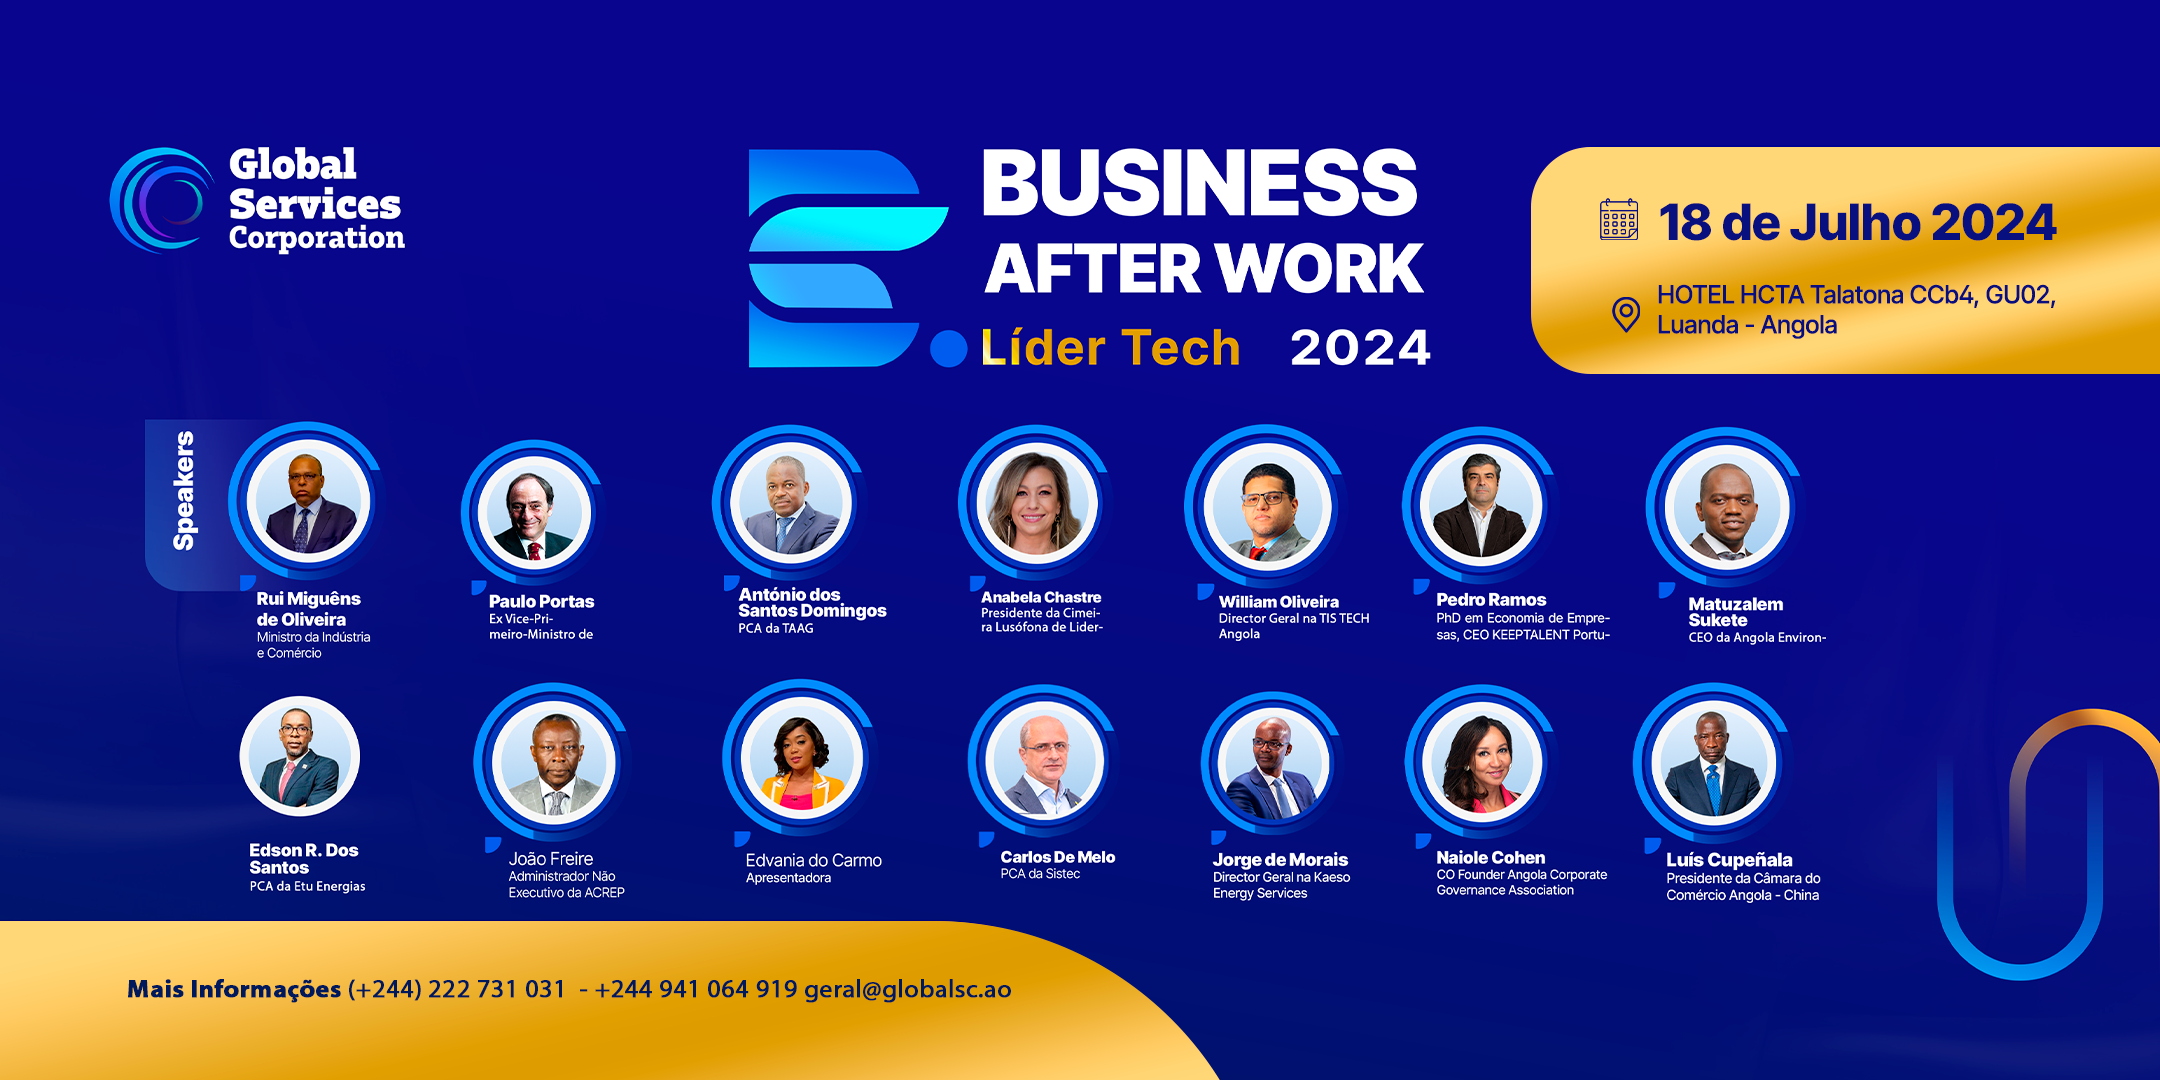
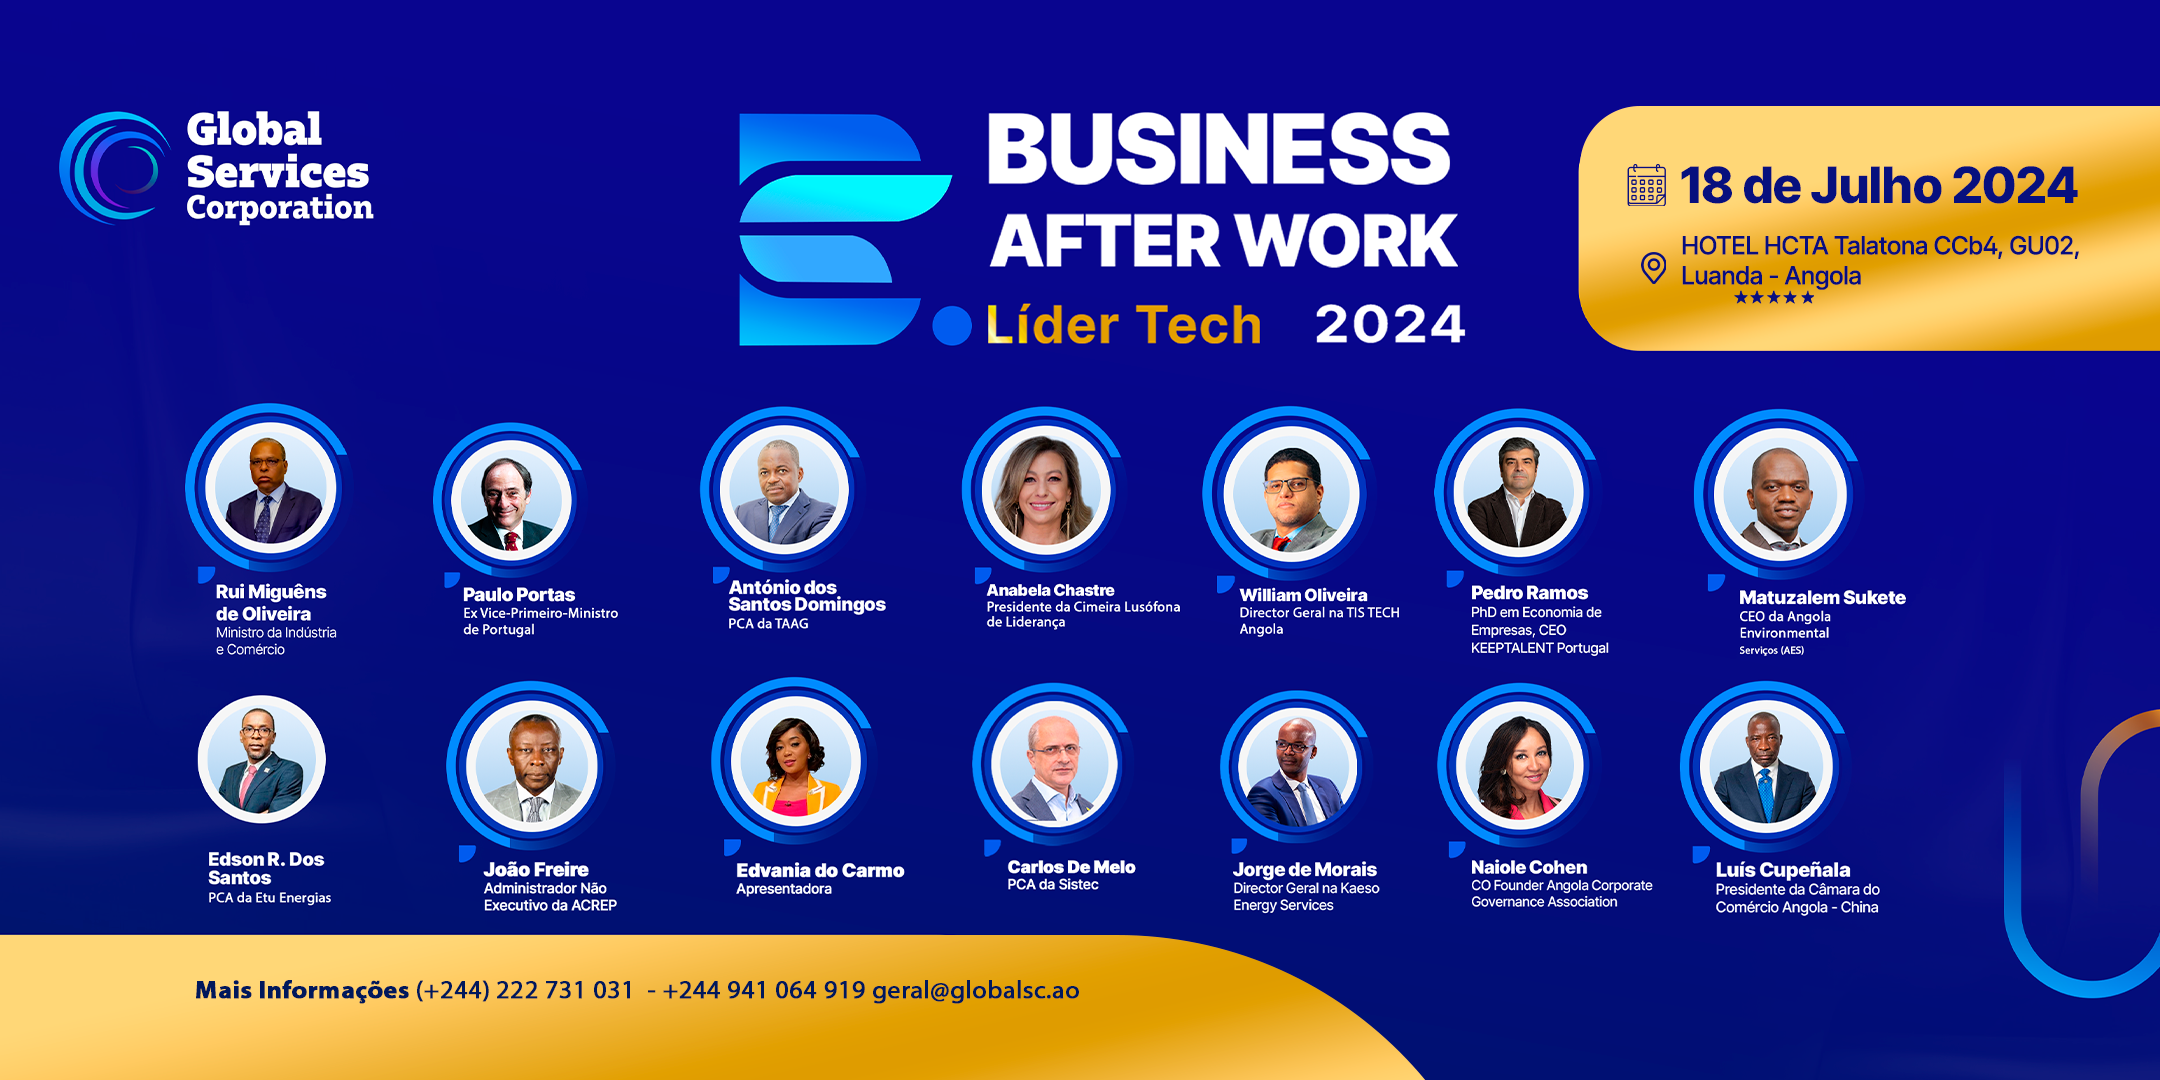
subind alterações

diff --git a/src/containers/Baw2024/Banner.tsx b/src/containers/Baw2024/Banner.tsx
@@ -1,4 +1,5 @@
 import bannerPic from "../../assets/bannerPic.png"
+import bannerPicMobile from "../../assets/bannerPicMobile.png"
 // import Slider from "react-slick"
 import "slick-carousel/slick/slick.css"
 import "slick-carousel/slick/slick-theme.css"
@@ -16,11 +17,17 @@ const Banner: React.FC = () => {
 	} */
 
 	return (
-		<div className="h-[800px] max-sm:min-h-[0] relative max-sm:h-[600px] w-full ">
+		<div className="h-[800px] max-lg:min-h-[0] relative max-lg:h-[500px] w-full ">
 			<img
 				src={bannerPic}
 				alt=""
-				className="w-full object-cover opacity-90 object-top rounded-[50px] max-sm:rounded-none  max-3xl:w-[1250px] z-0 h-full"
+				className=" w-full max-lg:hidden object-cover opacity-90 object-top rounded-[50px] max-sm:rounded-none  max-3xl:w-[1250px] z-0 h-full"
+			/>
+
+			<img
+				src={bannerPicMobile}
+				alt=""
+				className="hidden w-full max-lg:block opacity-90 object-top rounded-[50px] max-sm:rounded-none z-0 h-full"
 			/>
 			{/* <div className="flex flex-col justify-center max-sm:relative items-center w-full absolute top-48 gap-[50px] z-40">
 				<div className="flex flex-col max-sm:absolute max-sm:top-10 max-sm:items-center max-sm:flex justify-center items-center text-[#fff] w-[1075px] max-lg:w-full max-lg:px-8 gap-6">

diff --git a/src/containers/Baw2024/AboutEvent.tsx b/src/containers/Baw2024/AboutEvent.tsx
@@ -1,4 +1,4 @@
-import { aboutImage } from "../../assets";
+import  aboutImage from "../../assets/bannerPicMobile.png";
 
 const AboutEvent: React.FC = () => {
   return (
